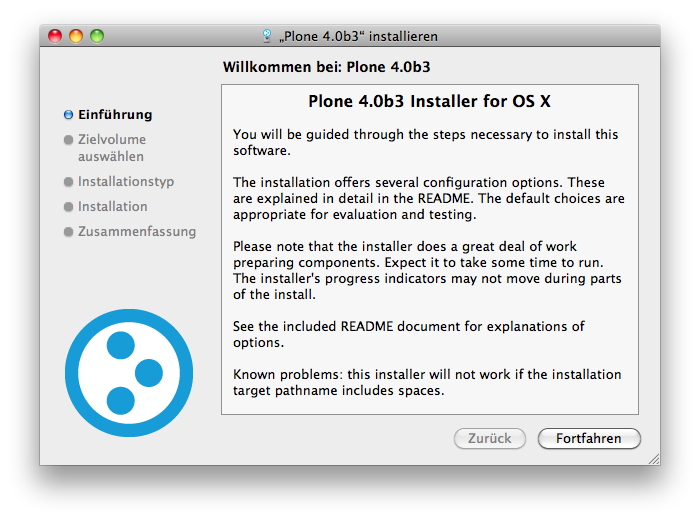
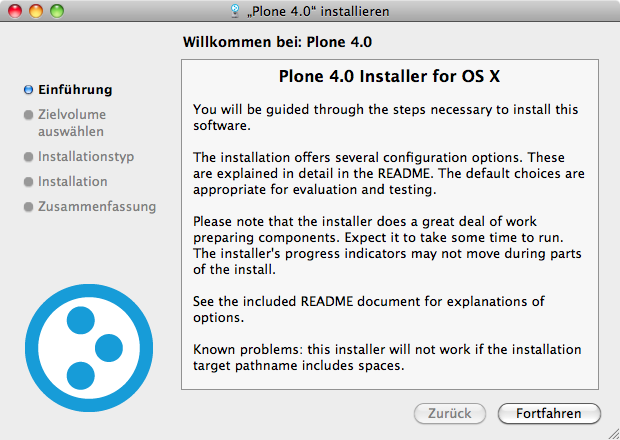
Mac Installer hat kein Production Mode

diff --git a/installation/macosx.rst b/installation/macosx.rst
@@ -60,17 +60,6 @@ ZEO Cluster
    Die Installation von Plone in einem ZEO-Cluster ist für Produktivsysteme
    gedacht. Sie bietet die Möglichkeit zum Load-Balancing.
 
-Production Mode
-   Wenn Sie diese Option wählen, installieren Sie Plone als
-   Systemadministrator. Für Plone wird dabei ein spezieller Benutzer
-   eingerichtet, der mit besonders restriktiven Rechten ausgestattet ist. Diese
-   Installationsart ist als Ausgangspunkt für ein Produktivsystem gedacht. Sie
-   müssen diese Option zusätzlich zu den beiden anderen aktivieren. 
-
-Install Startup Item 
-   Diese Option ist nur aktiv, wenn Sie die Option ›Production Mode‹ angewählt
-   haben. Damit stellen Sie sicher, dass Plone beim Hochfahren Ihres Servers
-   automatisch gestartet wird. 
 
 Klicken Sie auf :menuselection:`Fortfahren`, wenn Sie ihre Wahl getroffen
 haben. Sie werden anschließend aufgefordert, mit der Installation zu beginnen

diff --git a/installation/linux.rst b/installation/linux.rst
@@ -6,13 +6,13 @@ Installation unter Linux
 Laden Sie von plone.org das gepackte Archiv mit dem :term:`Unified Installer`
 für Linux herunter und entpacken Sie das Archiv.::
 
-    wget http://launchpad.net/plone/3.3/3.3.5/+download/Plone-3.3.5-UnifiedInstaller.tgz
+    wget http://launchpad.net/plone/4.0/4.0.0/+download/Plone-4.0-UnifiedInstaller.tgz
 
-    tar -xvf Plone-3.3.5-UnifiedInstaller.tgz
+    tar -xvf Plone-4.0-UnifiedInstaller.tgz
 
 Wechseln Sie anschließend in den entstandenden Ordner. ::
 
-    cd Plone-3.3.5-UnifiedInstaller
+    cd Plone-4.0-UnifiedInstaller
 
 In der Datei :file:`README.txt` finden Sie Informationen darüber, welche
 Optionen Ihnen bei der Installation von Plone zur Verfügung stehen. Diese sind

diff --git a/installation/index.rst b/installation/index.rst
@@ -29,11 +29,16 @@ Adresse http://plone.org/products/plone
 
 .. figure:: 
    ../images/ploneorg-download-optionen.*
+   :width: 100%
 
    Die verfügbaren Installer für Plone 4
 
 Wählen Sie einfach das für Ihr Betriebssystem passende Installationspaket aus
-und laden Sie es herunter.
+und laden Sie es herunter. Der Installer für Mac OS X eignet sich nur zur
+Installation einer Entwicklungsumgebung. Wenn Sie ein Produktivsystem für Plone
+unter Mac OS X installieren möchten, benutzen Sie bitte den Unified Installer
+für Linux/BSD/Unix. Um den Unified Installer unter Mac OS X nutzen zu können,
+muss zudem :term:`XCode` installiert sein.
 
 .. _zc.buildout: http://pypi.python.org/pypi/zc.buildout
 
